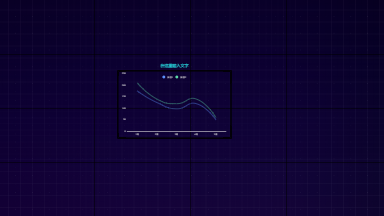
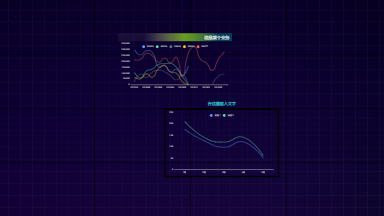
增加大屏编辑与保存功能；增加清空画板功能

Changed region(s): [[0.2812, 0.1389, 0.7188, 0.8333], [0.6562, 0.6667, 0.6875, 0.7222], [0.5625, 0.25, 0.5938, 0.2778]]

diff --git a/src/models/common.ts b/src/models/common.ts
@@ -5,6 +5,7 @@ import * as lib from '@/utils/lib';
 import { TQuickTool } from '@/component/Editor/types';
 import { getTblBusinessCategory } from '@/pages/config/panel/business/db';
 import { reorderPanel } from '@/pages/config/panel/layer';
+import { getConfig as getDashboardConfigByUrl } from '@/pages/index/lib';
 
 const updatePanel = function* ({ panel, call, put, ...props }) {
   yield call(db.savePanel(), panel);
@@ -246,6 +247,36 @@ export default {
         },
       });
     },
+    // 编辑指定的json文件
+    *loadPageOnline({ payload: { file } }, { put, call }) {
+      let res = yield call(getDashboardConfigByUrl, file);
+      if (res.type !== 'online') {
+        return;
+      }
+      let { page, panel } = res;
+      yield put({
+        type: 'setStore',
+        payload: {
+          page,
+          panel,
+        },
+      });
+    },
+
+    // 清空页面数据
+    *clearPage({}, { put, call }) {
+      let { page } = R.clone(defaultState);
+      yield call(db.savePanel('page'), page);
+      yield call(db.savePanel('panel'), []);
+      yield put({
+        type: 'setStore',
+        payload: {
+          page,
+          panel: [],
+          selectedPanel: [],
+        },
+      });
+    },
     *updatePage({ payload: { page } }, { put, call, select }) {
       let prevPage = yield select((state) => state[namespace].page);
       yield updatePage({
@@ -422,19 +453,30 @@ export default {
 
   subscriptions: {
     setup({ dispatch, history }) {
-      return history.listen(({ pathname }) => {
+      return history.listen(({ pathname, query }) => {
         // 配置页时才加载信息，首页不加载
-        if (['/config'].includes(pathname)) {
-          dispatch({
-            type: 'loadPanel',
-          });
-          dispatch({
-            type: 'loadPage',
-          });
+        if (['/config', '/config/'].includes(pathname)) {
+          if (query.file) {
+            dispatch({
+              type: 'loadPageOnline',
+              payload: {
+                file: query.file,
+              },
+            });
+          } else {
+            dispatch({
+              type: 'loadPanel',
+            });
+            dispatch({
+              type: 'loadPage',
+            });
+          }
+
           dispatch({
             type: 'loadBusinessCategory',
           });
         }
+
         dispatch({
           type: 'setStore',
           pathname,

diff --git a/src/pages/config/header.tsx b/src/pages/config/header.tsx
@@ -11,7 +11,7 @@ import { saveAs } from 'file-saver';
 import { Confirm } from '@/component/Editor/Popup/Popup';
 import { api } from '@/utils/setting';
 import { addDashboardList } from '@/pages/config/panel/business/db';
-
+import qs from 'querystring';
 import pinyin from '@/utils/pinyin.js';
 import { message } from 'antd';
 
@@ -58,7 +58,11 @@ export default ({
   author: string;
   getThumbnail: (scale: number, filename: string | null) => Promise<string | void>;
 }) => {
-  let title = pinyin.toPinYinFull(_title);
+  let query: { file?: string; id?: string } = qs.parse(window.location.search.slice(1));
+  let title = query.file
+    ? query.file.replace('.json', '').split('/').slice(-1)[0]
+    : pinyin.toPinYinFull(_title);
+
   const [show, setShow] = useState(false);
   const onSave = async () => {
     let props = await getLocalConfig();
@@ -72,7 +76,6 @@ export default ({
     getThumbnail(0.2, title);
 
     let dashboard = {
-      title: _title,
       rec_time: lib.now(),
       panel,
       page: {
@@ -87,15 +90,21 @@ export default ({
     setShow(true);
 
     saveBat(title);
+    let success = true;
 
-    // 向大屏中添加列表项
-    addDashboardList({
-      title: _title,
-      file: title + '.json',
-      img: title + '.jpg',
-    }).then((success) => {
-      message[success ? 'success' : 'error'](`添加组件${success ? '成功' : '失败'}`);
-    });
+    // 非编辑模式下，向服务端写入数据；
+    // 否则 按原文件名替换文件
+    if (!query.file) {
+      // 向大屏中添加列表项
+      success = await addDashboardList({
+        title: _title,
+        file: title + '.json',
+        img: title + '.jpg',
+      });
+    } else {
+      message.success('请执行批处理文件并替换服务端现有配置文件以更新内容');
+    }
+    message[success ? 'success' : 'error'](`添加组件${success ? '成功' : '失败'}`);
   };
 
   // todo 增加批处理文件的生成

diff --git a/src/pages/config/panel/setting/index.tsx b/src/pages/config/panel/setting/index.tsx
@@ -13,6 +13,7 @@ import {
 import Config from './config';
 import { Dispatch } from 'redux';
 import SavePanel from '../business/SavePanel';
+import { Confirm } from '@/component/Editor/Popup/Popup';
 
 const getSelectedPanelConfig = (panel, selected) => panel.findIndex((item) => selected == item.id);
 
@@ -73,6 +74,8 @@ const Index = ({
     setShouldSave(!haseBusiness);
   }, [selectedPanel.length]);
 
+  const [showConfirm, setShowConfirm] = useState(false);
+
   return (
     <div
       className={classnames(styles['config-panel-wp'], {
@@ -113,15 +116,43 @@ const Index = ({
           保存为业务组件
         </div>
       )}
-      {!pageChart && (
-        <div
-          className={styles.bottom}
-          onClick={() => {
-            setHide({ config: true });
+      {showConfirm && (
+        <Confirm
+          title="清空画板"
+          style={{ width: 400, minHeight: 230, height: 'auto' }}
+          onCancel={() => {
+            setShowConfirm(false);
+          }}
+          onOk={() => {
+            dispatch({
+              type: 'common/clearPage',
+            });
+            setShowConfirm(false);
           }}
         >
-          确定
-        </div>
+          <div style={{ paddingTop: 20 }}>确定清空当前画板？该操作不可恢复。</div>
+        </Confirm>
+      )}
+      {!pageChart && (
+        <>
+          <div
+            className={styles.bottom}
+            onClick={() => {
+              setShowConfirm(true);
+            }}
+            style={{ outline: '1px solid #aaa', background: 'transparent' }}
+          >
+            清空画板
+          </div>
+          <div
+            className={styles.bottom}
+            onClick={() => {
+              setHide({ config: true });
+            }}
+          >
+            确定
+          </div>
+        </>
       )}
     </div>
   );

diff --git a/src/pages/list/RightSide.tsx b/src/pages/list/RightSide.tsx
@@ -77,7 +77,11 @@ const ScreenItem = ({ publish = true, title = '这是名称', file, id, img }: I
         <div className={styles.info}>
           <div className={styles.img} style={{ backgroundImage: `url("/data/${img}")` }} />
           <div className={styles.edit}>
-            <a href={`/config/?id=${id}`} rel="noopener noreferrer" className="edit-wrap">
+            <a
+              href={`/config/?id=${id}&file=./data/${file}`}
+              rel="noopener noreferrer"
+              className="edit-wrap"
+            >
               <Button type="primary">编辑</Button>
             </a>
             <div className={styles['main-button']}>
